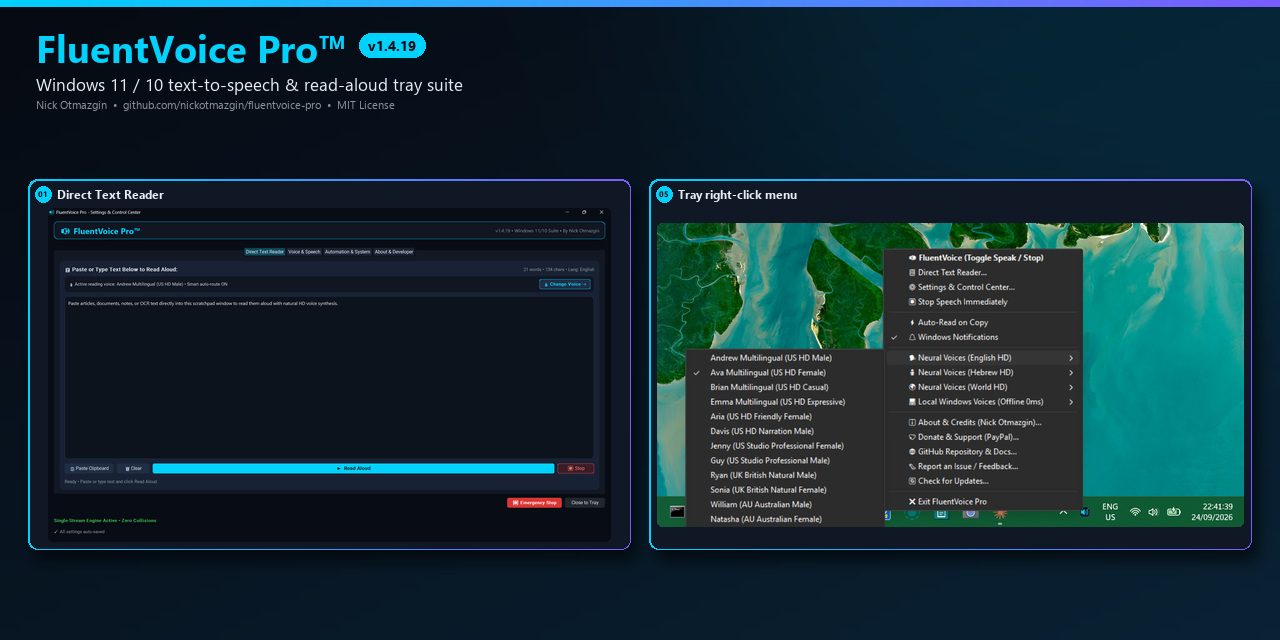
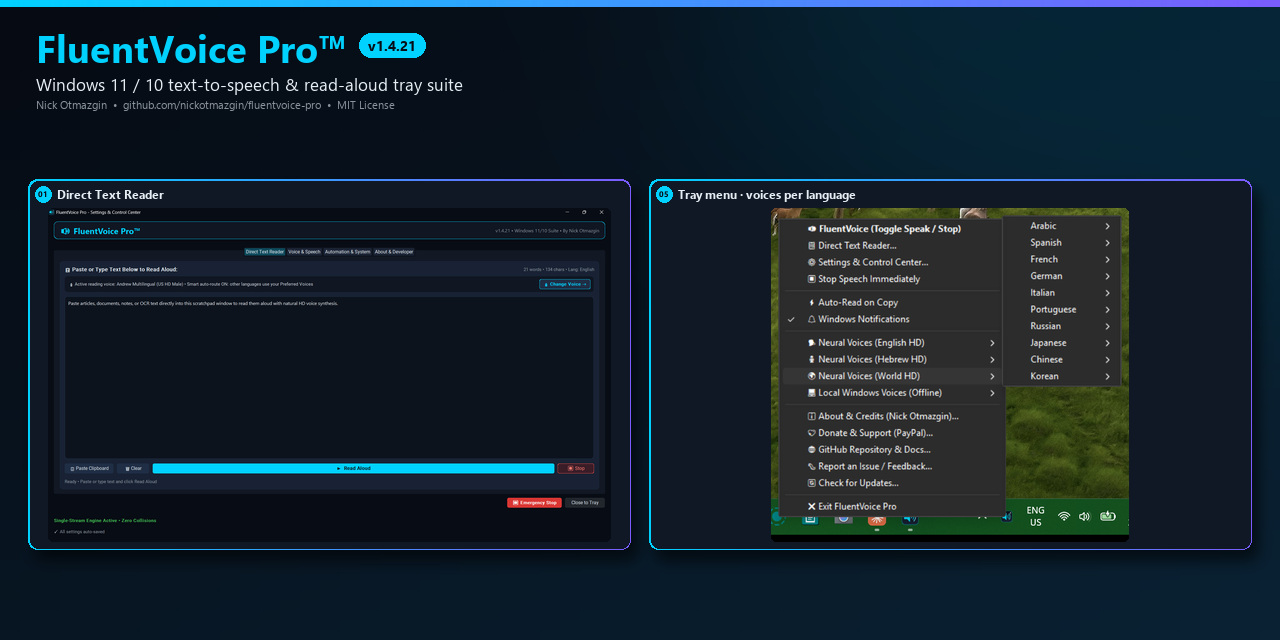
docs: v1.4.21 screenshots, collage and social preview
- 01-04 recaptured on v1.4.21 (new Language > Voice picker, default English).
- 05 new tray menu with the per-language World HD submenu (retired Davis /
  William no longer shown).
- 08 recaptured on v1.4.21 with the maintainer's real startup state.
- Collage, 1080 social image and 1280x640 GitHub preview rebuilt.

Changed region(s): [[0.5, 0.2812, 0.9688, 0.8438], [0.1875, 0.4375, 0.25, 0.4688], [0.3125, 0.0625, 0.3438, 0.0938]]

diff --git a/scripts/build_collage.py b/scripts/build_collage.py
@@ -20,7 +20,7 @@ SRC = ROOT / "screenshots" / f"v{VERSION}"
 
 TITLE = "FluentVoice Pro™"
 SUBTITLE = "Windows 11 / 10 text-to-speech & read-aloud tray suite"
-HIGHLIGHTS = "Start with Windows (portable too)  •  Streaming Direct Text Reader  •  Check for Updates (SHA-256 verified)  •  Neural + offline voices"
+HIGHLIGHTS = "60 HD voices in 12 languages  •  Smart auto-route  •  Streaming Direct Text Reader  •  Start with Windows  •  SHA-256 verified updates"
 FOOTER = "Nick Otmazgin  •  github.com/nickotmazgin/fluentvoice-pro  •  MIT License"
 
 PANELS = [  # (file, number, label) in reading order
@@ -28,7 +28,7 @@ PANELS = [  # (file, number, label) in reading order
     ("02-settings-voice.png", "02", "Voice & Speech"),
     ("03-settings-automation.png", "03", "Automation & System"),
     ("04-settings-about-updates.png", "04", "About · Updates & Factory Reset"),
-    ("05-tray-menu.png", "05", "Tray right-click menu"),
+    ("05-tray-menu.png", "05", "Tray menu · voices per language"),
     ("06-desktop-icon-live.png", "06", "Desktop icon"),
     ("07-tray-icon-closeup.png", "07", "Tray icon near the clock"),
     ("08-settings-automation-updates.png", "08", "Automation · Startup & Shortcuts"),

diff --git a/README.md b/README.md
@@ -23,56 +23,56 @@ Equipped with a **Windows 11 Fluent UI Settings & Control Center**, global singl
 
 ## Screenshots
 
-*FluentVoice Pro **v1.4.19** — click any image to view it full size.*
+*FluentVoice Pro **v1.4.21** — click any image to view it full size.*
 
-[![FluentVoice Pro v1.4.19 collage](screenshots/v1.4.19/collage-v1.4.19.jpg)](screenshots/v1.4.19/collage-v1.4.19.jpg)
+[![FluentVoice Pro v1.4.21 collage](screenshots/v1.4.21/collage-v1.4.21.jpg)](screenshots/v1.4.21/collage-v1.4.21.jpg)
 
 <table>
   <tr>
     <td align="center">
-      <a href="screenshots/v1.4.19/01-settings-reader.png"><img src="screenshots/v1.4.19/01-settings-reader.png" width="260" alt="Direct Text Reader"></a><br>
+      <a href="screenshots/v1.4.21/01-settings-reader.png"><img src="screenshots/v1.4.21/01-settings-reader.png" width="260" alt="Direct Text Reader"></a><br>
       <b>01</b> — Direct Text Reader
     </td>
     <td align="center">
-      <a href="screenshots/v1.4.19/02-settings-voice.png"><img src="screenshots/v1.4.19/02-settings-voice.png" width="260" alt="Voice &amp; Speech"></a><br>
+      <a href="screenshots/v1.4.21/02-settings-voice.png"><img src="screenshots/v1.4.21/02-settings-voice.png" width="260" alt="Voice &amp; Speech"></a><br>
       <b>02</b> — Voice &amp; Speech
     </td>
     <td align="center">
-      <a href="screenshots/v1.4.19/03-settings-automation.png"><img src="screenshots/v1.4.19/03-settings-automation.png" width="260" alt="Automation &amp; System"></a><br>
+      <a href="screenshots/v1.4.21/03-settings-automation.png"><img src="screenshots/v1.4.21/03-settings-automation.png" width="260" alt="Automation &amp; System"></a><br>
       <b>03</b> — Automation &amp; System
     </td>
   </tr>
   <tr>
     <td align="center">
-      <a href="screenshots/v1.4.19/04-settings-about-updates.png"><img src="screenshots/v1.4.19/04-settings-about-updates.png" width="260" alt="About, Updates &amp; Factory Reset"></a><br>
+      <a href="screenshots/v1.4.21/04-settings-about-updates.png"><img src="screenshots/v1.4.21/04-settings-about-updates.png" width="260" alt="About, Updates &amp; Factory Reset"></a><br>
       <b>04</b> — About · Updates &amp; Factory Reset
     </td>
     <td align="center">
-      <a href="screenshots/v1.4.19/05-tray-menu.png"><img src="screenshots/v1.4.19/05-tray-menu.png" width="260" alt="Tray right-click menu"></a><br>
-      <b>05</b> — Tray right-click menu
+      <a href="screenshots/v1.4.21/05-tray-menu.png"><img src="screenshots/v1.4.21/05-tray-menu.png" width="260" alt="Tray right-click menu"></a><br>
+      <b>05</b> — Tray menu · voices per language
     </td>
     <td align="center">
-      <a href="screenshots/v1.4.19/06-desktop-icon-live.png"><img src="screenshots/v1.4.19/06-desktop-icon-live.png" width="260" alt="Desktop icon"></a><br>
+      <a href="screenshots/v1.4.21/06-desktop-icon-live.png"><img src="screenshots/v1.4.21/06-desktop-icon-live.png" width="260" alt="Desktop icon"></a><br>
       <b>06</b> — Desktop icon
     </td>
   </tr>
   <tr>
     <td align="center">
-      <a href="screenshots/v1.4.19/07-tray-icon-closeup.png"><img src="screenshots/v1.4.19/07-tray-icon-closeup.png" width="260" alt="Tray icon near the clock"></a><br>
+      <a href="screenshots/v1.4.21/07-tray-icon-closeup.png"><img src="screenshots/v1.4.21/07-tray-icon-closeup.png" width="260" alt="Tray icon near the clock"></a><br>
       <b>07</b> — Tray icon near the clock
     </td>
     <td align="center">
-      <a href="screenshots/v1.4.19/08-settings-automation-updates.png"><img src="screenshots/v1.4.19/08-settings-automation-updates.png" width="260" alt="Automation: Startup &amp; Shortcuts"></a><br>
+      <a href="screenshots/v1.4.21/08-settings-automation-updates.png"><img src="screenshots/v1.4.21/08-settings-automation-updates.png" width="260" alt="Automation: Startup &amp; Shortcuts"></a><br>
       <b>08</b> — Automation · Startup &amp; Shortcuts
     </td>
     <td align="center">
-      <a href="screenshots/v1.4.19/09-portable-first-launch.png"><img src="screenshots/v1.4.19/09-portable-first-launch.png" width="260" alt="Portable first launch prompt"></a><br>
+      <a href="screenshots/v1.4.21/09-portable-first-launch.png"><img src="screenshots/v1.4.21/09-portable-first-launch.png" width="260" alt="Portable first launch prompt"></a><br>
       <b>09</b> — Portable first launch
     </td>
   </tr>
 </table>
 
-Full combined image (download): [collage-v1.4.19.jpg](screenshots/v1.4.19/collage-v1.4.19.jpg)
+Full combined image (download): [collage-v1.4.21.jpg](screenshots/v1.4.21/collage-v1.4.21.jpg)
 
 ---
 

diff --git a/docs/SCREENSHOTS.md b/docs/SCREENSHOTS.md
@@ -1,4 +1,4 @@
-# Screenshots (v1.4.19)
+# Screenshots (v1.4.21)
 
 HD captures for the README, the GitHub social preview, and social posts.
 
@@ -6,18 +6,18 @@ HD captures for the README, the GitHub social preview, and social posts.
 
 | File | Purpose |
 |------|---------|
-| `screenshots/v1.4.19/collage-v1.4.19.jpg` | README hero collage (3840 wide, 3×3: 01–09) |
-| `screenshots/v1.4.19/social-preview-1280x640.jpg` | GitHub OG / link preview (also `.github/social-preview.{jpg,png}`) |
-| `screenshots/v1.4.19/social-collage-1080.jpg` | Square social post |
-| `screenshots/v1.4.19/01-settings-reader.png` | 01 Direct Text Reader |
-| `screenshots/v1.4.19/02-settings-voice.png` | 02 Voice & Speech |
-| `screenshots/v1.4.19/03-settings-automation.png` | 03 Automation & System (Auto-Read, language, hotkey) |
-| `screenshots/v1.4.19/04-settings-about-updates.png` | 04 About · Updates & Factory Reset |
-| `screenshots/v1.4.19/05-tray-menu.png` | 05 Tray right-click menu |
-| `screenshots/v1.4.19/06-desktop-icon-live.png` | 06 Desktop icon |
-| `screenshots/v1.4.19/07-tray-icon-closeup.png` | 07 Tray icon near the clock |
-| `screenshots/v1.4.19/08-settings-automation-updates.png` | 08 Automation · Startup & Shortcuts, tray daemon, Updates |
-| `screenshots/v1.4.19/09-portable-first-launch.png` | 09 Portable EXE first-launch prompt (Start with Windows?) |
+| `screenshots/v1.4.21/collage-v1.4.21.jpg` | README hero collage (3840 wide, 3×3: 01–09) |
+| `screenshots/v1.4.21/social-preview-1280x640.jpg` | GitHub OG / link preview (also `.github/social-preview.{jpg,png}`) |
+| `screenshots/v1.4.21/social-collage-1080.jpg` | Square social post |
+| `screenshots/v1.4.21/01-settings-reader.png` | 01 Direct Text Reader |
+| `screenshots/v1.4.21/02-settings-voice.png` | 02 Voice & Speech |
+| `screenshots/v1.4.21/03-settings-automation.png` | 03 Automation & System (Auto-Read, language, hotkey) |
+| `screenshots/v1.4.21/04-settings-about-updates.png` | 04 About · Updates & Factory Reset |
+| `screenshots/v1.4.21/05-tray-menu.png` | 05 Tray right-click menu |
+| `screenshots/v1.4.21/06-desktop-icon-live.png` | 06 Desktop icon |
+| `screenshots/v1.4.21/07-tray-icon-closeup.png` | 07 Tray icon near the clock |
+| `screenshots/v1.4.21/08-settings-automation-updates.png` | 08 Automation · Startup & Shortcuts, tray daemon, Updates |
+| `screenshots/v1.4.21/09-portable-first-launch.png` | 09 Portable EXE first-launch prompt (Start with Windows?) |
 
 ## Recapture + rebuild
 
